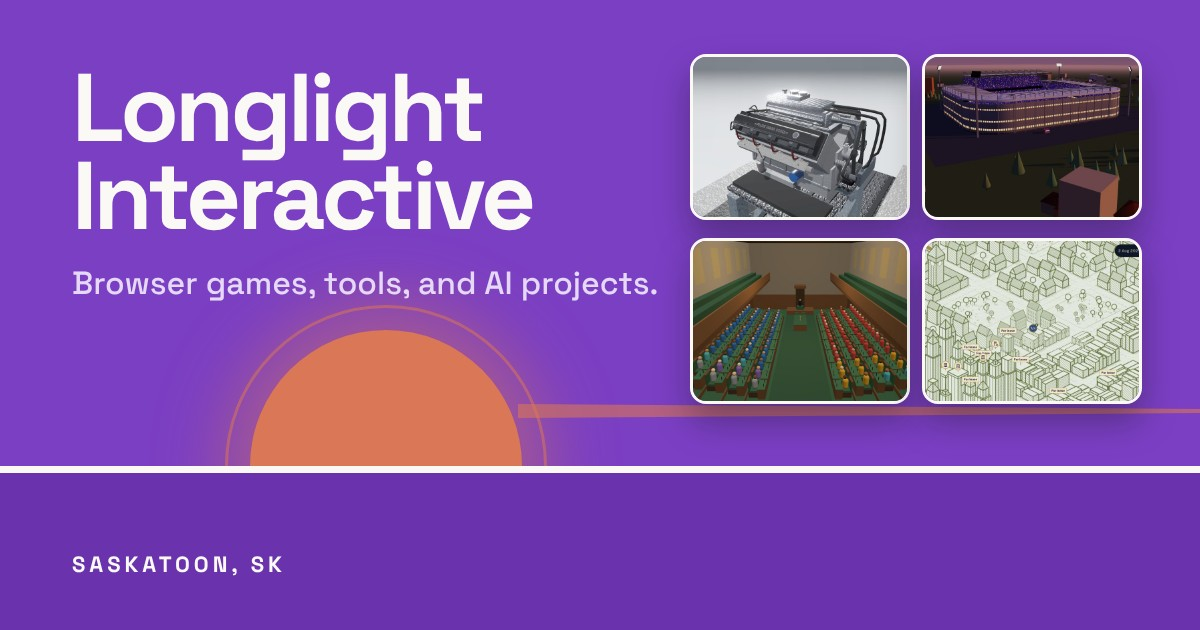
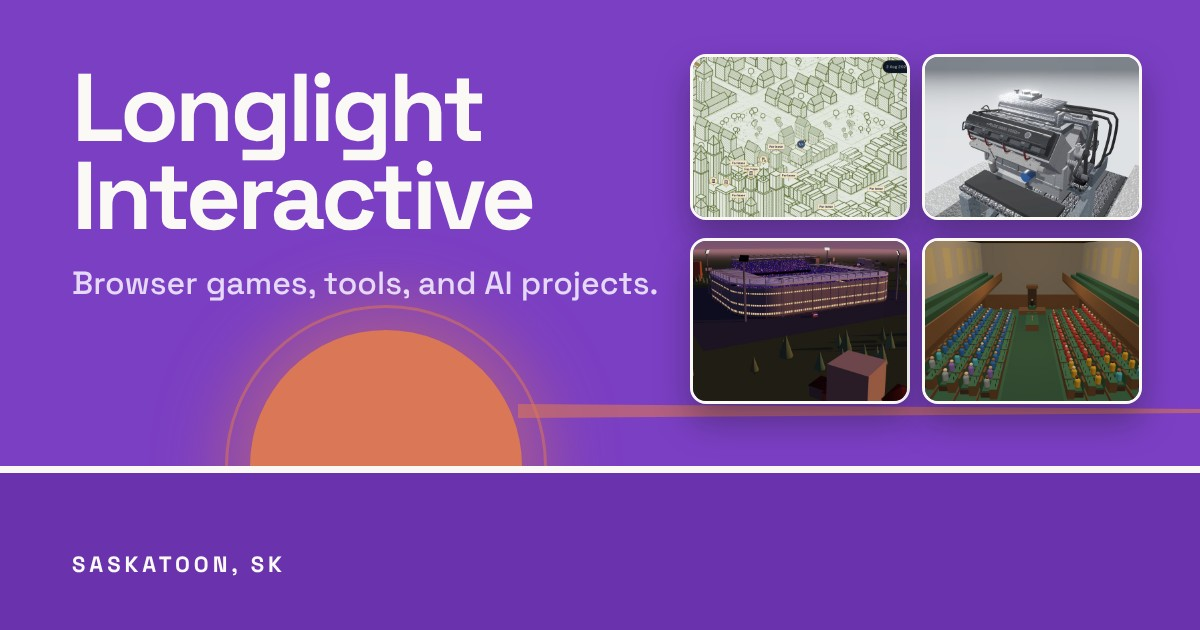
Vault Street moves to #1, everything else shifts down one (#127)
Kelbo's call. The home page's four cards are the same games, now led by
Vault Street, and the link preview grid follows the same order
(og:image bumped to ?v=15).

Claude-Session: https://claude.ai/code/session_016QaTkMKy8nw5ihBrZfYzcJ

Changed region(s): [[0.555, 0.0905, 0.9558, 0.6635]]

diff --git a/tools/prediction-tracker/index.html b/tools/prediction-tracker/index.html
@@ -14,7 +14,7 @@
   <meta property="og:title" content="Prediction Tracker · Longlight Interactive">
   <meta property="og:description" content="Log predictions with how sure you are, grade them later, and see how well-calibrated your calls really are. Everything stays on your own device.">
   <meta property="og:url" content="https://jxstrr0.github.io/Kelbo.Website/tools/prediction-tracker/">
-  <meta property="og:image" content="https://jxstrr0.github.io/Kelbo.Website/assets/social-preview.jpg?v=14">
+  <meta property="og:image" content="https://jxstrr0.github.io/Kelbo.Website/assets/social-preview.jpg?v=15">
   <meta property="og:image:width" content="1200">
   <meta property="og:image:height" content="630">
   <meta property="og:image:alt" content="The Longlight Interactive sun over a purple horizon, beside screenshots of four of its games.">

diff --git a/agent-fleet.html b/agent-fleet.html
@@ -14,7 +14,7 @@
   <meta property="og:title" content="Agent Fleet · Longlight Interactive">
   <meta property="og:description" content="A growing set of small, single-purpose bots I can run from my phone, like news digests, trackers, and weekly scans.">
   <meta property="og:url" content="https://jxstrr0.github.io/Kelbo.Website/agent-fleet.html">
-  <meta property="og:image" content="https://jxstrr0.github.io/Kelbo.Website/assets/social-preview.jpg?v=14">
+  <meta property="og:image" content="https://jxstrr0.github.io/Kelbo.Website/assets/social-preview.jpg?v=15">
   <meta property="og:image:width" content="1200">
   <meta property="og:image:height" content="630">
   <meta property="og:image:alt" content="The Longlight Interactive sun over a purple horizon, beside screenshots of four of its games.">

diff --git a/journal.html b/journal.html
@@ -14,7 +14,7 @@
   <meta property="og:title" content="AI Trading Journal · Longlight Interactive">
   <meta property="og:description" content="Kelbo's trading journal: his market views, his trades, and his running record, with notes from an AI coach.">
   <meta property="og:url" content="https://jxstrr0.github.io/Kelbo.Website/journal.html">
-  <meta property="og:image" content="https://jxstrr0.github.io/Kelbo.Website/assets/social-preview.jpg?v=14">
+  <meta property="og:image" content="https://jxstrr0.github.io/Kelbo.Website/assets/social-preview.jpg?v=15">
   <meta property="og:image:width" content="1200">
   <meta property="og:image:height" content="630">
   <meta property="og:image:alt" content="The Longlight Interactive sun over a purple horizon, beside screenshots of four of its games.">

diff --git a/game.html b/game.html
@@ -14,7 +14,7 @@
   <meta property="og:title" content="Game · Longlight Interactive">
   <meta property="og:description" content="A Longlight Interactive browser game: what it is, how far along it is, screenshots, and where to play it.">
   <meta property="og:url" content="https://jxstrr0.github.io/Kelbo.Website/game.html">
-  <meta property="og:image" content="https://jxstrr0.github.io/Kelbo.Website/assets/social-preview.jpg?v=14">
+  <meta property="og:image" content="https://jxstrr0.github.io/Kelbo.Website/assets/social-preview.jpg?v=15">
   <meta property="og:image:width" content="1200">
   <meta property="og:image:height" content="630">
   <meta property="og:image:alt" content="The Longlight Interactive sun over a purple horizon, beside screenshots of four of its games.">

diff --git a/games.html b/games.html
@@ -14,7 +14,7 @@
   <meta property="og:title" content="Games · Longlight Interactive">
   <meta property="og:description" content="Browser games from Longlight Interactive. Play them on your phone or computer, or look at the code.">
   <meta property="og:url" content="https://jxstrr0.github.io/Kelbo.Website/games.html">
-  <meta property="og:image" content="https://jxstrr0.github.io/Kelbo.Website/assets/social-preview.jpg?v=14">
+  <meta property="og:image" content="https://jxstrr0.github.io/Kelbo.Website/assets/social-preview.jpg?v=15">
   <meta property="og:image:width" content="1200">
   <meta property="og:image:height" content="630">
   <meta property="og:image:alt" content="The Longlight Interactive sun over a purple horizon, beside screenshots of four of its games.">

diff --git a/projects.html b/projects.html
@@ -14,7 +14,7 @@
   <meta property="og:title" content="Projects · Longlight Interactive">
   <meta property="og:description" content="Games, tools, and AI projects from Longlight Interactive, from planned to shipped.">
   <meta property="og:url" content="https://jxstrr0.github.io/Kelbo.Website/projects.html">
-  <meta property="og:image" content="https://jxstrr0.github.io/Kelbo.Website/assets/social-preview.jpg?v=14">
+  <meta property="og:image" content="https://jxstrr0.github.io/Kelbo.Website/assets/social-preview.jpg?v=15">
   <meta property="og:image:width" content="1200">
   <meta property="og:image:height" content="630">
   <meta property="og:image:alt" content="The Longlight Interactive sun over a purple horizon, beside screenshots of four of its games.">

diff --git a/about.html b/about.html
@@ -14,7 +14,7 @@
   <meta property="og:title" content="About · Longlight Interactive">
   <meta property="og:description" content="About Kelbo, the person behind Longlight Interactive, based in Saskatoon, Saskatchewan.">
   <meta property="og:url" content="https://jxstrr0.github.io/Kelbo.Website/about.html">
-  <meta property="og:image" content="https://jxstrr0.github.io/Kelbo.Website/assets/social-preview.jpg?v=14">
+  <meta property="og:image" content="https://jxstrr0.github.io/Kelbo.Website/assets/social-preview.jpg?v=15">
   <meta property="og:image:width" content="1200">
   <meta property="og:image:height" content="630">
   <meta property="og:image:alt" content="The Longlight Interactive sun over a purple horizon, beside screenshots of four of its games.">

diff --git a/whats-new.html b/whats-new.html
@@ -14,7 +14,7 @@
   <meta property="og:title" content="What's new · Longlight Interactive">
   <meta property="og:description" content="The newest version and latest change for every Longlight Interactive project.">
   <meta property="og:url" content="https://jxstrr0.github.io/Kelbo.Website/whats-new.html">
-  <meta property="og:image" content="https://jxstrr0.github.io/Kelbo.Website/assets/social-preview.jpg?v=14">
+  <meta property="og:image" content="https://jxstrr0.github.io/Kelbo.Website/assets/social-preview.jpg?v=15">
   <meta property="og:image:width" content="1200">
   <meta property="og:image:height" content="630">
   <meta property="og:image:alt" content="The Longlight Interactive sun over a purple horizon, beside screenshots of four of its games.">

diff --git a/trading.html b/trading.html
@@ -14,7 +14,7 @@
   <meta property="og:title" content="Trading · Longlight Interactive">
   <meta property="og:description" content="Kelbo's trading journal and the tools he builds for his own trading day.">
   <meta property="og:url" content="https://jxstrr0.github.io/Kelbo.Website/trading.html">
-  <meta property="og:image" content="https://jxstrr0.github.io/Kelbo.Website/assets/social-preview.jpg?v=14">
+  <meta property="og:image" content="https://jxstrr0.github.io/Kelbo.Website/assets/social-preview.jpg?v=15">
   <meta property="og:image:width" content="1200">
   <meta property="og:image:height" content="630">
   <meta property="og:image:alt" content="The Longlight Interactive sun over a purple horizon, beside screenshots of four of its games.">

diff --git a/index.html b/index.html
@@ -14,7 +14,7 @@
   <meta property="og:title" content="Longlight Interactive">
   <meta property="og:description" content="Longlight Interactive makes browser games, tools, and AI projects in Saskatoon, Saskatchewan.">
   <meta property="og:url" content="https://jxstrr0.github.io/Kelbo.Website/">
-  <meta property="og:image" content="https://jxstrr0.github.io/Kelbo.Website/assets/social-preview.jpg?v=14">
+  <meta property="og:image" content="https://jxstrr0.github.io/Kelbo.Website/assets/social-preview.jpg?v=15">
   <meta property="og:image:width" content="1200">
   <meta property="og:image:height" content="630">
   <meta property="og:image:alt" content="The Longlight Interactive sun over a purple horizon, beside screenshots of four of its games.">

diff --git a/ai.html b/ai.html
@@ -14,7 +14,7 @@
   <meta property="og:title" content="AI · Longlight Interactive">
   <meta property="og:description" content="AI projects and small bots from Longlight Interactive.">
   <meta property="og:url" content="https://jxstrr0.github.io/Kelbo.Website/ai.html">
-  <meta property="og:image" content="https://jxstrr0.github.io/Kelbo.Website/assets/social-preview.jpg?v=14">
+  <meta property="og:image" content="https://jxstrr0.github.io/Kelbo.Website/assets/social-preview.jpg?v=15">
   <meta property="og:image:width" content="1200">
   <meta property="og:image:height" content="630">
   <meta property="og:image:alt" content="The Longlight Interactive sun over a purple horizon, beside screenshots of four of its games.">

diff --git a/CLAUDE.md b/CLAUDE.md
@@ -66,8 +66,8 @@ keep the Co-Authored-By trailer for Claude in each message.
 - The link preview image is `assets/social-preview.jpg` (1200×630, the
   Longlight sky, the sun with its glow and halo on the horizon line,
   "Longlight Interactive", plus the four featured game covers in a 2×2
-  grid: Prairie Engine Works, Season Ticket, The Whip, Vault Street). Every `og:image`
-  ends `?v=14` so apps refetch it; bump it on every page when the picture
+  grid: Vault Street, Prairie Engine Works, Season Ticket, The Whip). Every `og:image`
+  ends `?v=15` so apps refetch it; bump it on every page when the picture
   changes. Regenerate it if the covers change a lot. The favicon and
   home-screen icons are the logo's sun (glow, halo, sun) on an ivory line
   on a purple tile (the favicon turns slate in dark mode):
@@ -84,7 +84,7 @@ keep the Co-Authored-By trailer for Claude in each message.
 - `projects.json` is the single source of truth for projects. `main.js`
   renders it. Its order is the display order everywhere (Games, Projects,
   What's new, home featured, "More games"): Kelbo's own ranking, games
-  first: Prairie Engine Works, Season Ticket, The Whip, Vault Street, Garage to Glory,
+  first: Vault Street, Prairie Engine Works, Season Ticket, The Whip, Garage to Glory,
   Outpost, Red Skies, Baccarat. Nothing sorts by progress except the
   Projects page's filter buttons (`sortByProgress`). Adding a project should never need an HTML edit. Each project
   can carry a `version` ("1.4", no "v") and `latest` (what changed), shown
